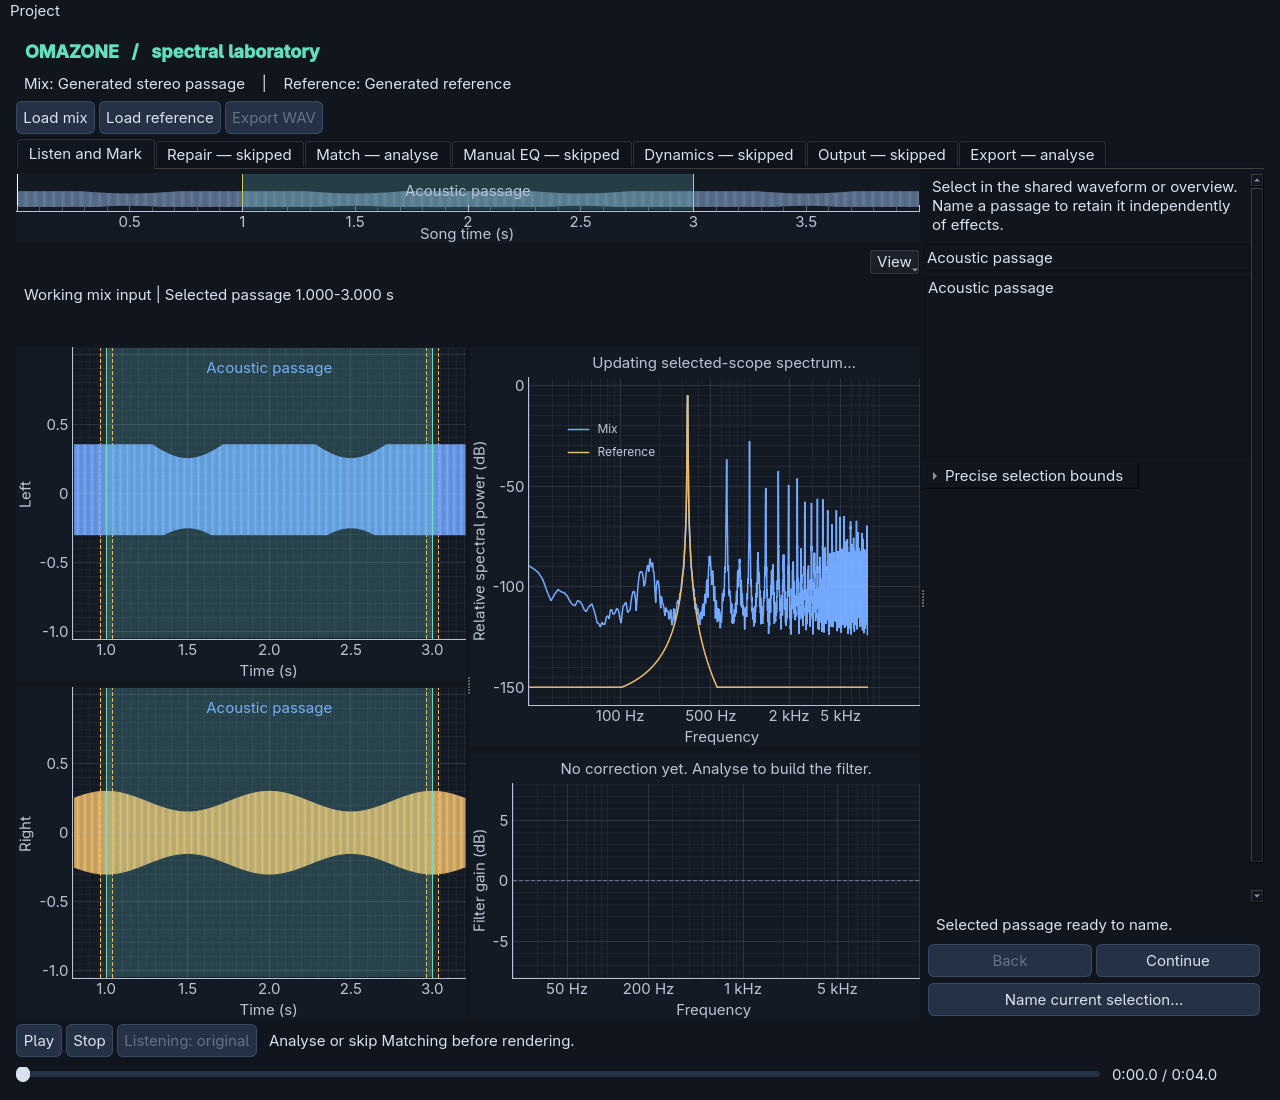
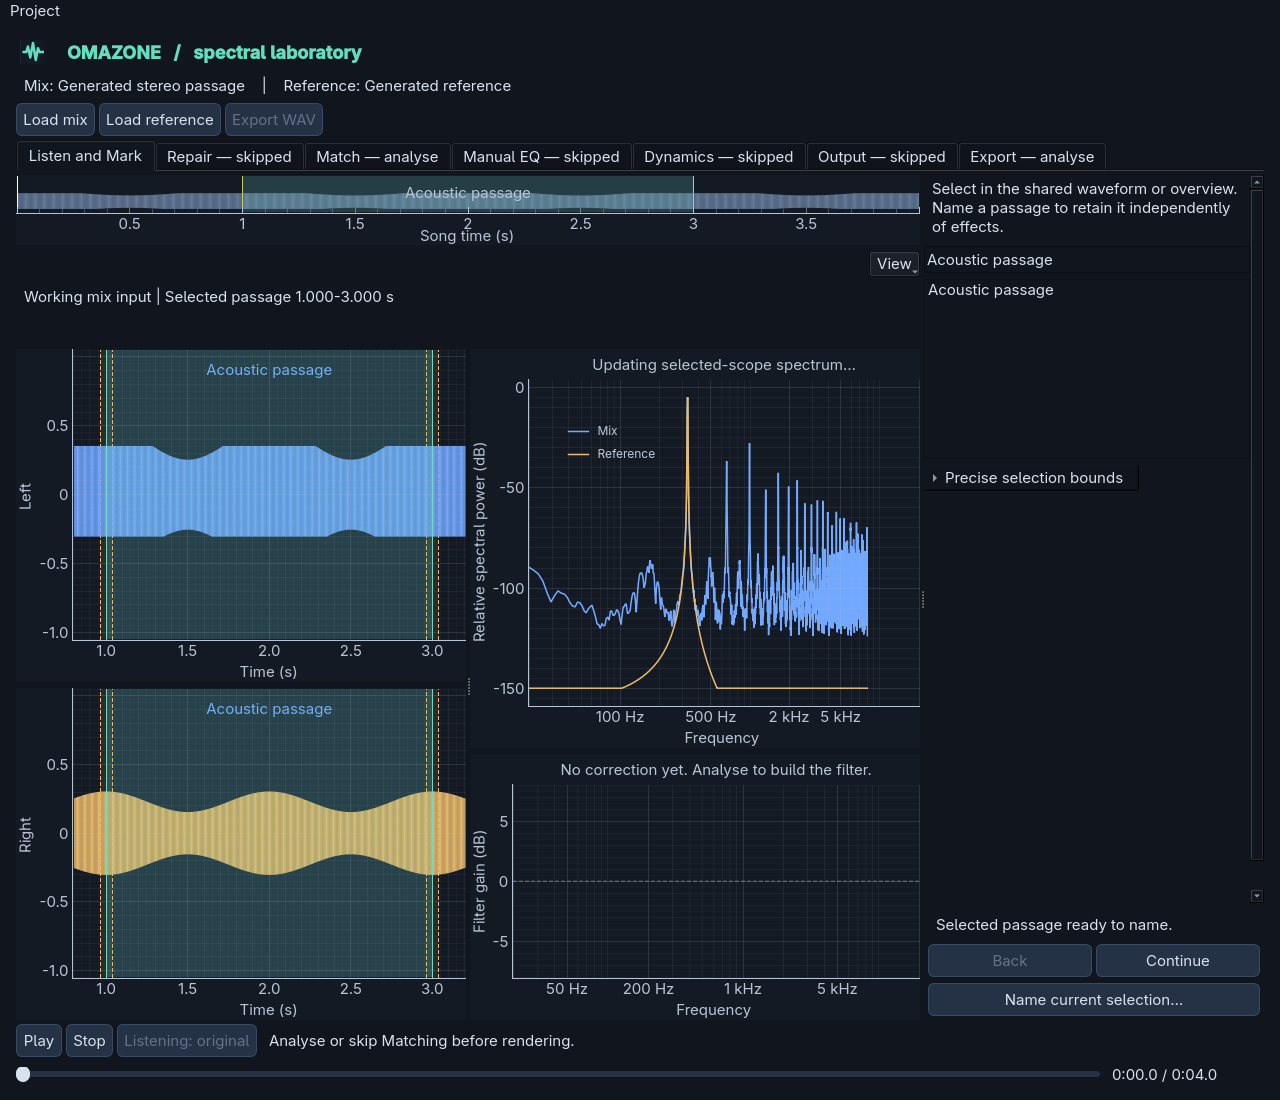
Put the mark in the header and fix the demo the metering change broke
The icon lived only in the window title bar, above the menu bar and outside
any screenshot of the window, so the application looked unbranded the moment
it opened. The mark now sits beside the heading, visible on launch and in
every generated screenshot.

The same render exposed a misleading message: a window with nothing loaded
said "Recording unavailable. Project regions and choices are retained; relink
the original", telling someone to relink a file they had never chosen. An
empty start now says to load a mix, and a recipe that really does expect
audio keeps its guidance.

Also fixes tools/render_loop_demo.py, which #77 broke by giving
audition_pair a sample rate and missing the one call site. No CI job runs the
demos, so the published loop gif had gone stale unnoticed.

Rebased onto main so it follows #77.

diff --git a/tests/test_gui.py b/tests/test_gui.py
@@ -2748,3 +2748,51 @@ def test_output_reports_true_peak_beside_the_sample_peak(tmp_path):
         window.project.mark_saved()
         window.close()
         app.processEvents()
+
+
+def test_an_empty_start_does_not_tell_the_user_to_relink_a_file(tmp_path):
+    """Nothing loaded is not the same problem as a project that lost its audio."""
+    app = QtWidgets.QApplication.instance() or QtWidgets.QApplication([])
+    window = Window()
+    try:
+        window.show()
+        for _ in range(4):
+            app.processEvents()
+        text = window.workspace.label.text()
+        assert "relink" not in text, text
+        assert "Load a mix" in text, text
+    finally:
+        window.project.mark_saved()
+        window.close()
+        app.processEvents()
+
+
+def test_a_project_whose_recording_is_missing_still_asks_for_a_relink(tmp_path):
+    """The genuine case keeps its guidance once a recipe expects audio."""
+    app = QtWidgets.QApplication.instance() or QtWidgets.QApplication([])
+    window = Window()
+    rate = 16000
+    sf.write(
+        tmp_path / "mix.wav",
+        np.random.default_rng(319).normal(0, 0.1, (rate, 2)),
+        rate,
+        subtype="DOUBLE",
+    )
+    try:
+        window.show()
+        window.loaded("source", load_audio(tmp_path / "mix.wav"))
+        window.project.mark_saved()
+        for _ in range(4):
+            app.processEvents()
+        # The recipe still references a recording; the audio is simply gone.
+        assert window.project.source is not None
+        window.source = None
+        window.workspace.tool_changed()
+        for _ in range(4):
+            app.processEvents()
+        assert "relink" in window.workspace.label.text(), window.workspace.label.text()
+
+    finally:
+        window.project.mark_saved()
+        window.close()
+        app.processEvents()

diff --git a/src/omazone/gui.py b/src/omazone/gui.py
@@ -253,9 +253,21 @@ class Window(ProjectController, QtWidgets.QMainWindow):
         layout = QtWidgets.QVBoxLayout(central)
         layout.setContentsMargins(16, 12, 16, 12)
         layout.setSpacing(4)
+        # The mark sits in the header rather than only the title bar, so the
+        # application looks like itself the moment it opens.
+        brand = QtWidgets.QHBoxLayout()
+        brand.setContentsMargins(0, 0, 0, 0)
+        brand.setSpacing(10)
+        mark = QtWidgets.QLabel()
+        mark.setPixmap(application_icon().pixmap(32, 32))
+        mark.setFixedSize(32, 32)
+        mark.setToolTip("Omazone")
+        brand.addWidget(mark, 0, QtCore.Qt.AlignmentFlag.AlignVCenter)
         heading = QtWidgets.QLabel("OMAZONE   /   spectral laboratory")
         heading.setStyleSheet("font-size: 18px; font-weight: bold; color: #63dfc0;")
-        layout.addWidget(heading)
+        brand.addWidget(heading, 0, QtCore.Qt.AlignmentFlag.AlignVCenter)
+        brand.addStretch(1)
+        layout.addLayout(brand)
         self.files = QtWidgets.QLabel("Load a mix and a reference to begin.")
         self.files.setSizePolicy(
             QtWidgets.QSizePolicy.Policy.Ignored, QtWidgets.QSizePolicy.Policy.Preferred

diff --git a/src/omazone/workspace.py b/src/omazone/workspace.py
@@ -507,8 +507,15 @@ class SongWorkspace(QtWidgets.QWidget):
                 self.eq_canvas.set_spectra()
                 self.compressor_canvas.show_result(None)
                 self.output_canvas.show_peaks((None, None, None))
+                # No audio on screen means one of two quite different things:
+                # a project whose recording could not be found, or simply
+                # nothing loaded yet. Telling someone to relink a file they
+                # never chose is worse than saying nothing useful.
                 self.label.setText(
-                    "Recording unavailable. Project regions and choices are retained; relink the original."
+                    "Recording unavailable. Project regions and choices are retained; "
+                    "relink the original."
+                    if self.owner.project.source is not None
+                    else "Load a mix to see the song."
                 )
                 self.badge.setText(" | ".join(self.owner.asset_messages))
             else:

diff --git a/tools/render_loop_demo.py b/tools/render_loop_demo.py
@@ -63,7 +63,7 @@ def main():
     )
     spec = design_match(source_spectrum, target_spectrum, rate)
     processed = render(audio, spec)
-    window.processed((processed, analyse(processed, rate), spec, audition_pair(audio, processed)))
+    window.processed((processed, analyse(processed, rate), spec, audition_pair(audio, processed, rate)))
     window.update_buttons()
     window.show_waveform()
     window.waveform.set_selection(SampleRegion(rate, int(rate * 2.5)))
